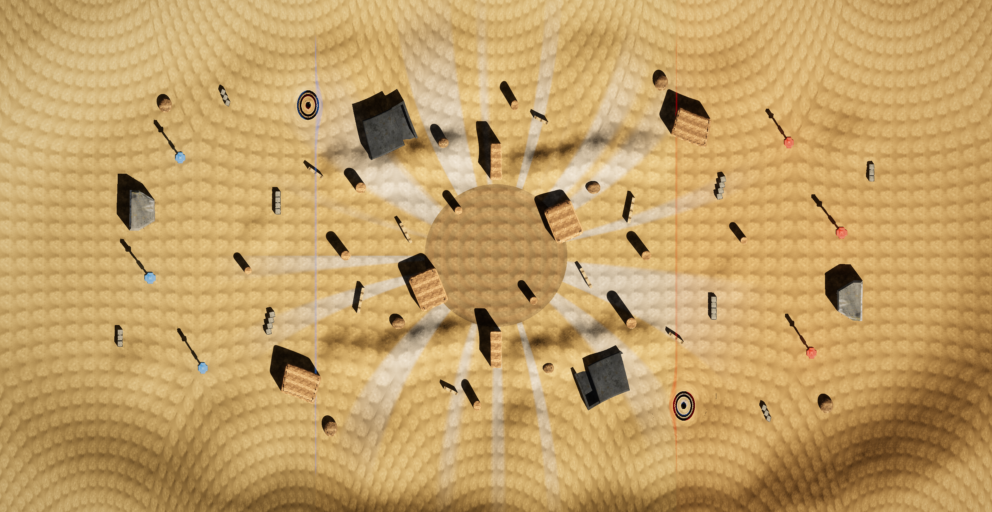
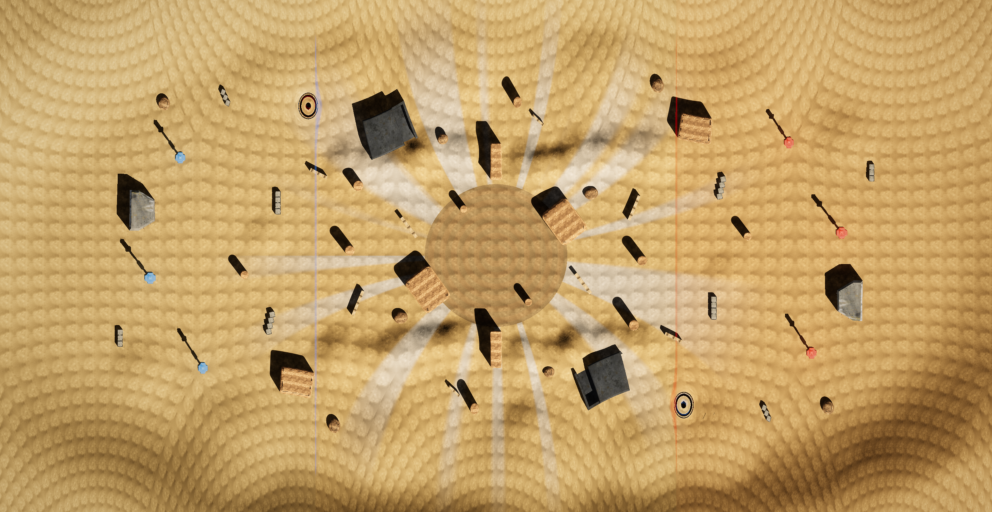
dust: redraw the MAP page picture with today's 3-octave ground (W-134, Dust map page picture stale)
make make-map-picture MAP=dust; the old picture predated the 3-octave ground and the lowered
mouths (a mean of 3.4 of 255 apart, 6.9% of pixels past 8). Two renders in a row are identical.

diff --git a/demos/dust_rust/DECISIONS.md b/demos/dust_rust/DECISIONS.md
@@ -102,4 +102,6 @@ Decisions made instead of the user (W-121, Dust demo). **User?** marks ones to w
       - `map_pictures/dust_r50m.png` predates item 17's renderer: a fresh render of the same map differs from it by
         a mean of 3.3 of 255 (6.5% of pixels past 8), while lowering the mouths changes 0.35% of a fresh render's
         pixels, around the mouths. Regenerating it (`make make-map-picture MAP=dust`) would change the map page's
-        look, so it waits for the user. **User?**
+        look, so it waits for the user. **User?** Since W-134 (Dust map page picture stale) it is redrawn with
+        `make make-map-picture MAP=dust` (a mean of 3.4 of 255 from the old one, 6.9% of pixels past 8; two
+        renders in a row are identical).
